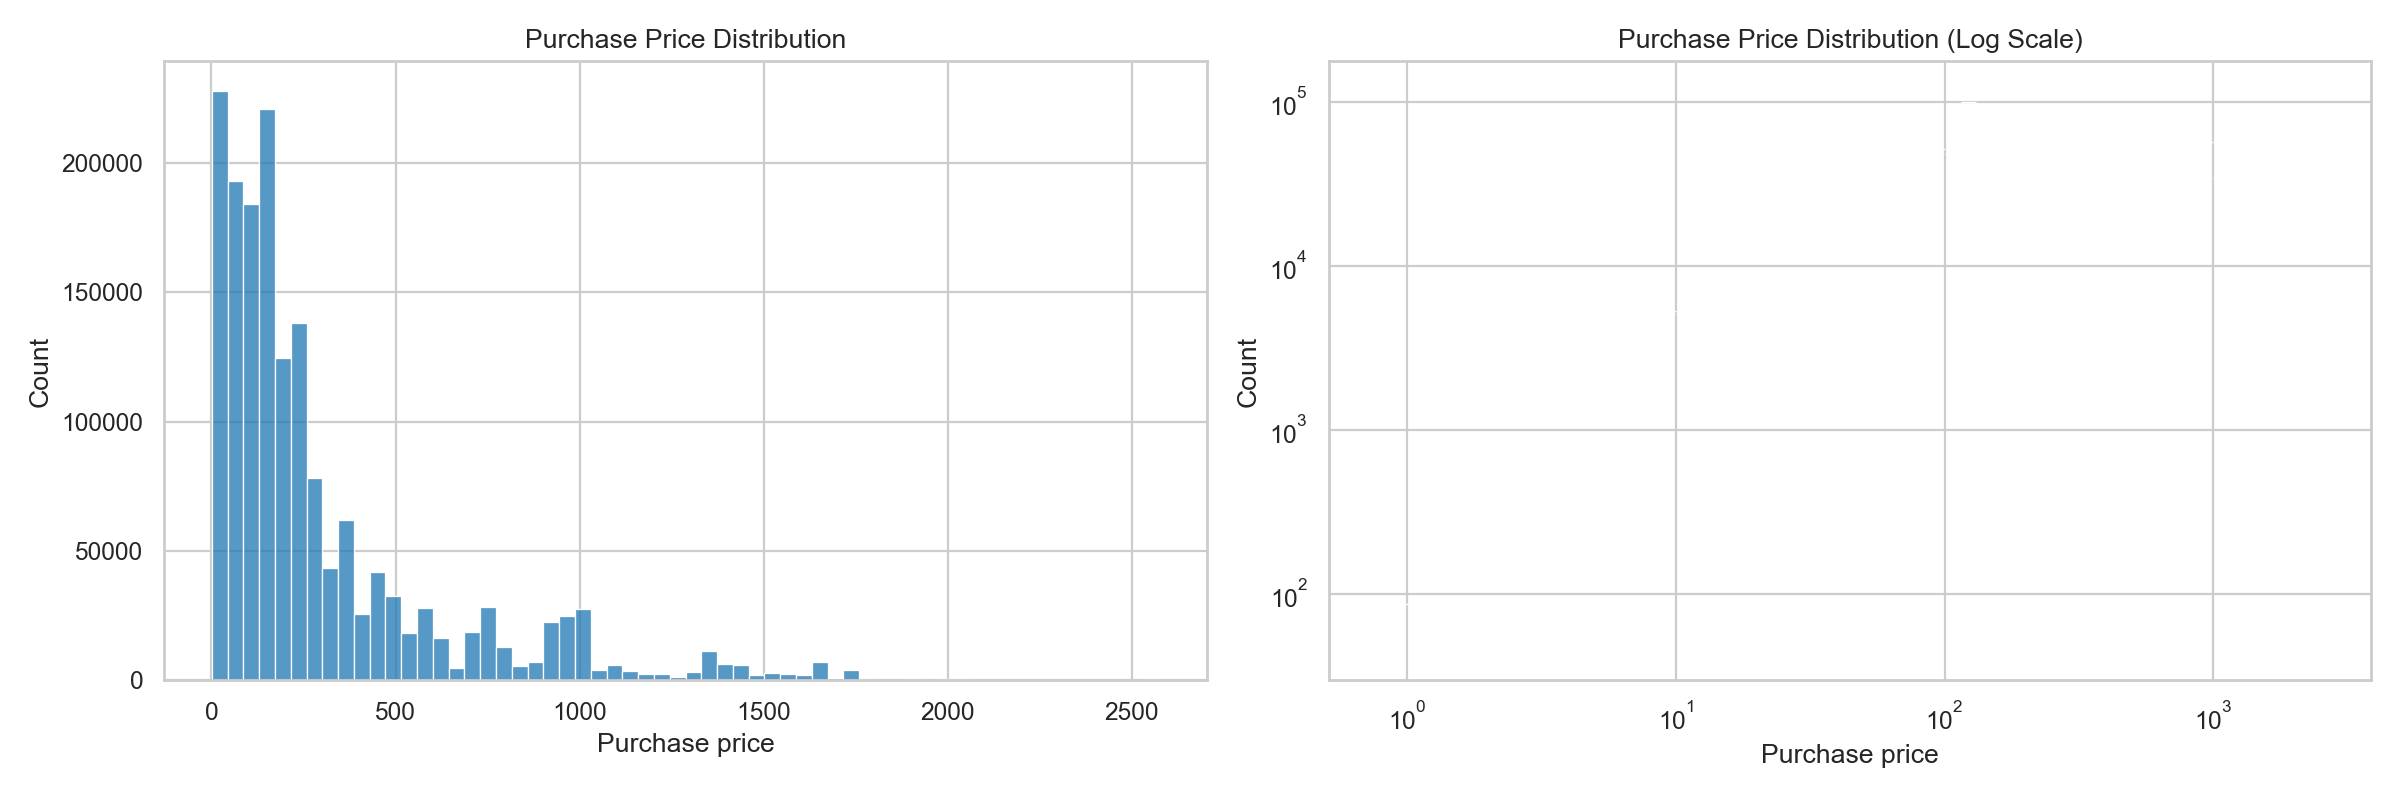
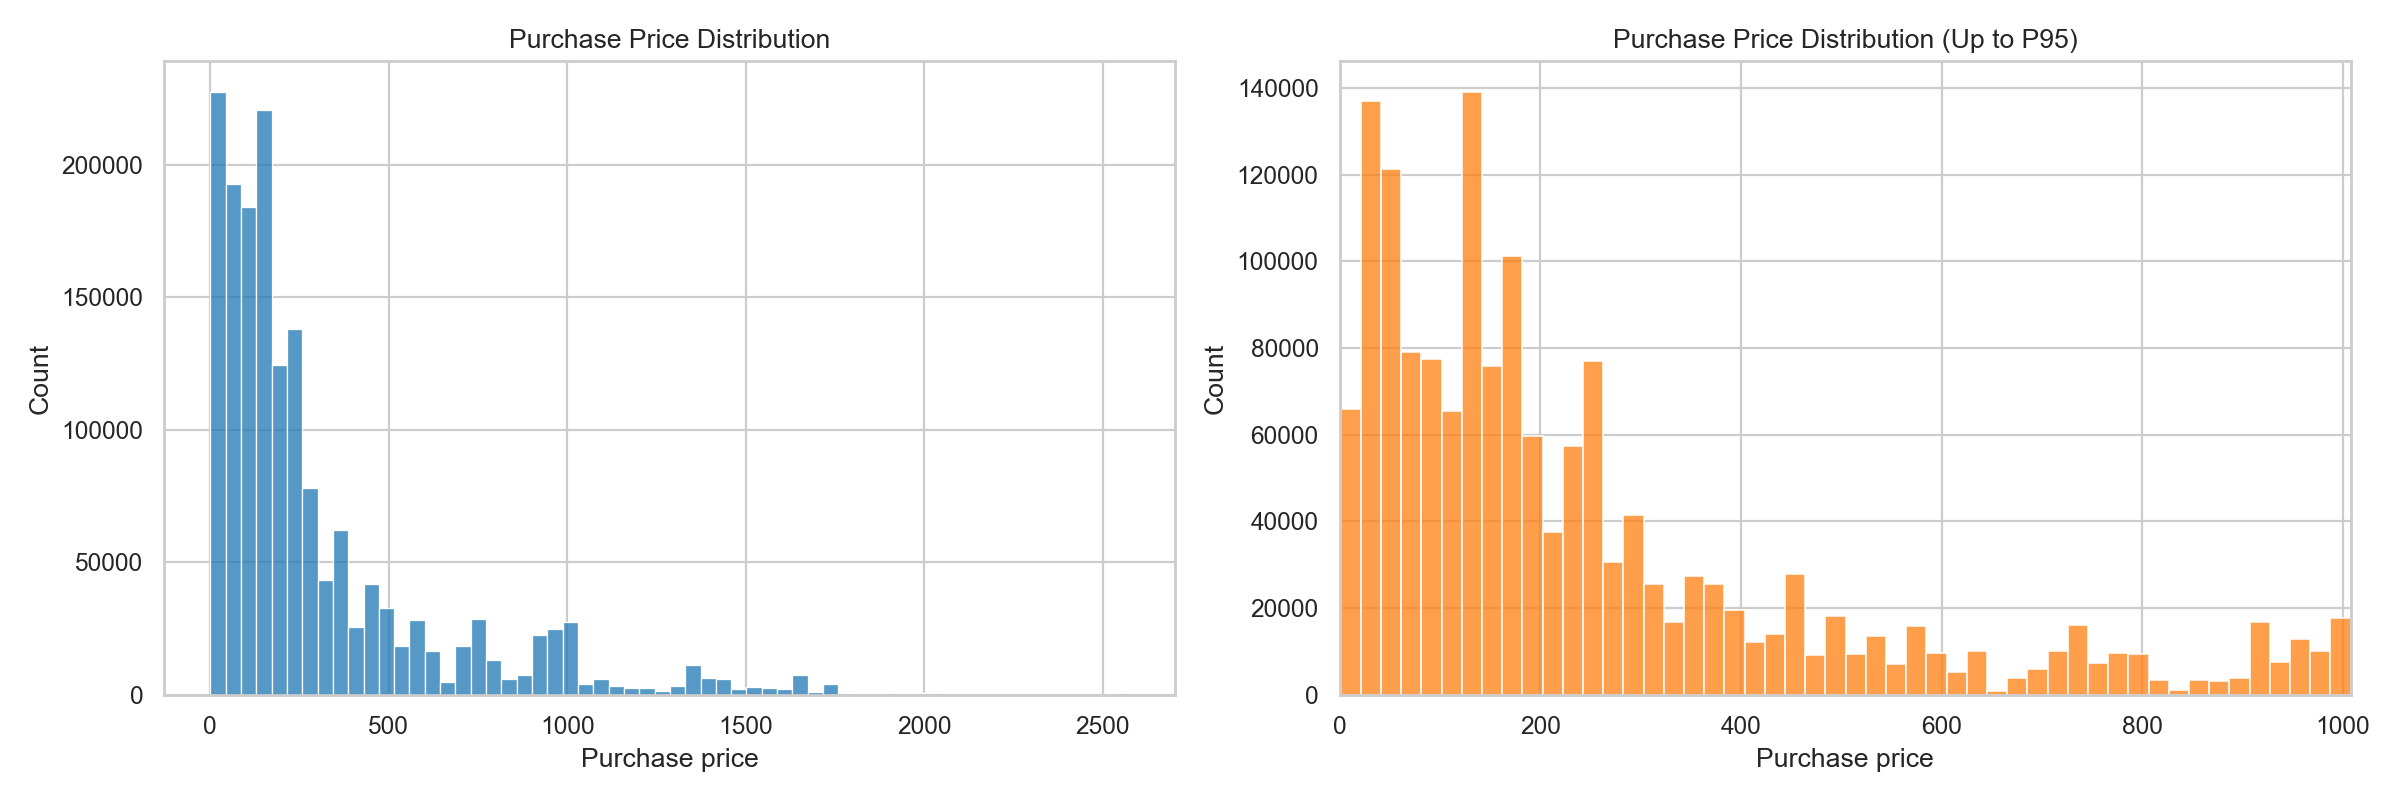
Improve revenue distribution visualization

diff --git a/analysis/02_eda.py b/analysis/02_eda.py
@@ -131,6 +131,8 @@ def plot_revenue_distribution(con: duckdb.DuckDBPyConnection) -> pd.DataFrame:
         FROM purchase_clean
         """
     ).fetchdf()
+    price_p95 = float(purchase_prices["price"].quantile(0.95))
+    zoom_prices = purchase_prices[purchase_prices["price"] <= price_p95].copy()
 
     fig, axes = plt.subplots(1, 2, figsize=(15, 5))
     sns.histplot(purchase_prices["price"], bins=60, ax=axes[0], color="#1f77b4")
@@ -138,10 +140,11 @@ def plot_revenue_distribution(con: duckdb.DuckDBPyConnection) -> pd.DataFrame:
     axes[0].set_xlabel("Purchase price")
     axes[0].set_ylabel("Count")
 
-    sns.histplot(purchase_prices["price"], bins=60, ax=axes[1], color="#ff7f0e", log_scale=(True, True))
-    axes[1].set_title("Purchase Price Distribution (Log Scale)")
+    sns.histplot(zoom_prices["price"], bins=50, ax=axes[1], color="#ff7f0e")
+    axes[1].set_title("Purchase Price Distribution (Up to P95)")
     axes[1].set_xlabel("Purchase price")
     axes[1].set_ylabel("Count")
+    axes[1].set_xlim(0, price_p95)
 
     fig.tight_layout()
     fig.savefig(OUTPUT_DIR / "revenue_distribution.png", dpi=160)